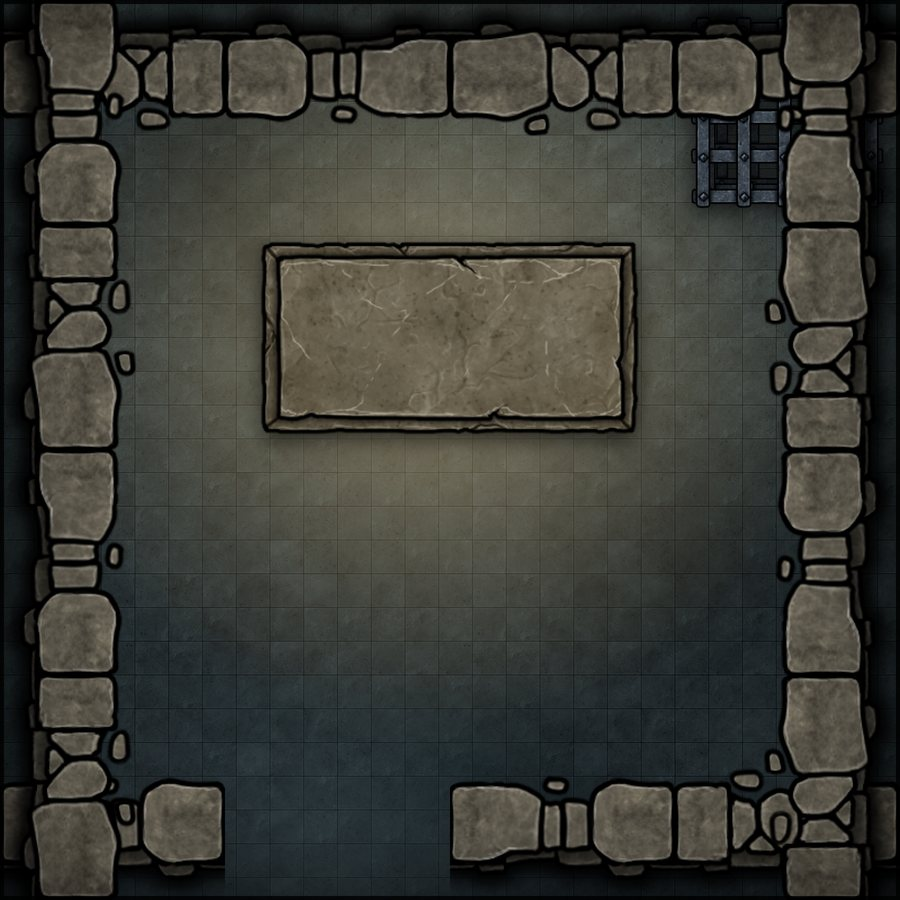
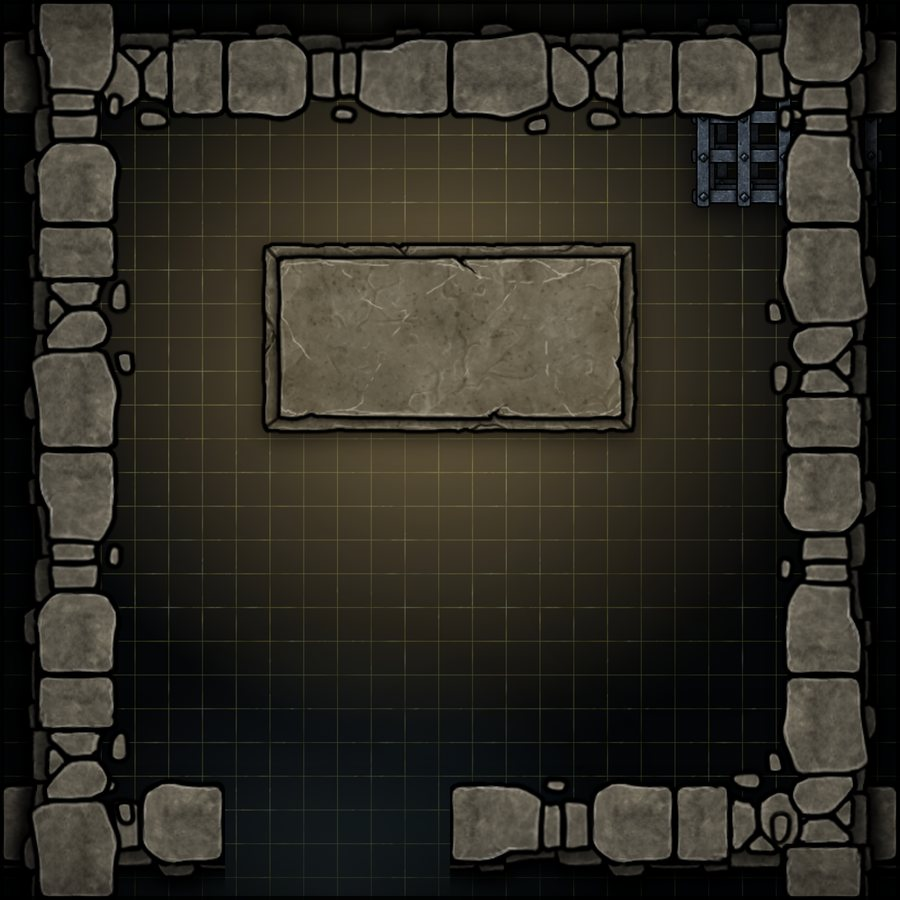
feat(tessere): muri modulari, arredi del Decor, pavimenti dal pacchetto terreni
Tre pacchetti in piu', ognuno per quel che sa fare meglio:

MURI — `Modular_Dungeons_Tile_Set` non ha pavimenti ne' arredi: e' un kit di
MURI dipinti, 200px per casella, con l'ombra gia' dentro. Il perimetro della
stanza si costruisce con quelli: un tratto per casella, ruotato di 0/90/180/270
sui quattro lati, e la soglia dove i dati mettono la porta.

Due cose viste solo GUARDANDO il render:
 - la fascia di pietra sta al 41% dell'altezza del pezzo, non in cima: dandola
   per scontata usciva una croce di muri in mezzo al pavimento. L'ancoraggio
   ora e' misurato sull'alfa del PNG;
 - i pezzi d'angolo 2x2 allungano le braccia due caselle DENTRO la stanza, e
   non si usano: l'angolo lo chiudono i due tratti che si incontrano.

Ogni pezzo sta in un riquadro QUADRATO di due caselle, cosi' la rotazione non
ne cambia l'ingombro.

ARREDI — `Dungeon_Decor_01` vince dove ha il pezzo giusto: le GABBIE (la nostra
`cella`, che nella libreria grande era un pezzo di pavimento), gli altari di
pietra, i bracieri.

PAVIMENTI — `Terrain_Textures_Pack_05` e' fatto apposta: piastrelle grandi,
cucitura invisibile, stessa mano degli arredi. Lastricato, pietra, mattonelle,
navata, roccia, acqua e terra vengono da li'; assi, mattoni e tetti restano
alla libreria grande, che li ha migliori.

L'importatore indicizza le quattro fonti in un colpo solo e le ricette dicono
quale preferire, chiave per chiave.

Claude-Session: https://claude.ai/code/session_01Wod13oae3thAaxmh6gmFiw

diff --git a/scripts/importa-fa.py b/scripts/importa-fa.py
@@ -41,6 +41,7 @@ ROOT = os.path.dirname(os.path.dirname(os.path.abspath(__file__)))
 BASI = [
     os.path.join(ROOT, 'risorse-vtt', 'FA_Assets_Webp'),
     os.path.join(ROOT, 'risorse-vtt', 'Dungeon_Decor_01'),
+    os.path.join(ROOT, 'risorse-vtt', 'Terrain_Textures_Pack_05'),
 ]
 BASE = BASI[0]
 FUORI = os.path.join(ROOT, 'webapp', 'vtt')
@@ -70,18 +71,26 @@ ARREDI = {
 }
 
 # i pavimenti sono TEXTURE piastrellabili: cartelle diverse, e una sola per ruolo
+# I PAVIMENTI VENGONO PRIMA DAL PACCHETTO DI TERRENI: e' fatto per questo —
+# piastrelle grandi, cucitura invisibile, e la stessa mano degli arredi. La
+# libreria grande resta come ripiego.
 PAVIMENTI = {
     'assi':       [['textures/wooden_floors', '.jpg'], ['textures/wood', '.jpg']],
-    'lastricato': [['textures/stone_floors', 'cobblestone_a', '.jpg'], ['textures/stone_floors', '.jpg']],
-    'pietra':     [['textures/stone_square_tiles', '.jpg'], ['textures/stone_floors', 'square', '.jpg']],
-    'mattonelle': [['textures/stone_patterned_tiles', '.jpg'], ['textures/marble', 'tiles', '.jpg']],
+    'lastricato': [['texture_pack_05', 'stone_tiles_a'],
+                   ['textures/stone_floors', 'cobblestone_a', '.jpg']],
+    'pietra':     [['texture_pack_05', 'square_grout'],
+                   ['textures/stone_square_tiles', '.jpg']],
+    'mattonelle': [['texture_pack_05', 'marble_tiles_b'],
+                   ['textures/stone_patterned_tiles', '.jpg']],
     'mattoni':    [['textures/brick', 'brick_floor', '.jpg'], ['textures/brick', '.jpg']],
-    'terra':      [['textures/cultivated_soil', '.jpg'], ['textures', 'dirt', '.jpg']],
-    'acqua':      [['aquatic', 'textures', 'water', '.jpg'], ['textures', 'water', '.jpg']],
+    'terra':      [['texture_pack_05', 'terrain'], ['texture_pack_05', 'forest_floor'],
+                   ['textures/cultivated_soil', '.jpg']],
+    'acqua':      [['texture_pack_05', 'still_water_a'],
+                   ['aquatic', 'textures', 'water', '.jpg']],
     'tetti':      [['textures/roof', 'tile', '.jpg'], ['textures/roof', '.jpg']],
-    'navata':     [['textures/marble', 'white', '.jpg'], ['textures/marble', '.jpg']],
-    'roccia':     [['underdark', 'textures', '.jpg'], ['textures', 'rock', '.jpg'],
-                   ['textures/stone_floors', 'dirt', '.jpg']],
+    'navata':     [['texture_pack_05', 'marble_tiles_a'],
+                   ['textures/marble', 'white', '.jpg']],
+    'roccia':     [['texture_pack_05', 'rock_'], ['underdark', 'textures', '.jpg']],
 }
 
 INGOMBRO = re.compile(r'_(\d+)x(\d+)\.(webp|png|jpg)$', re.I)
